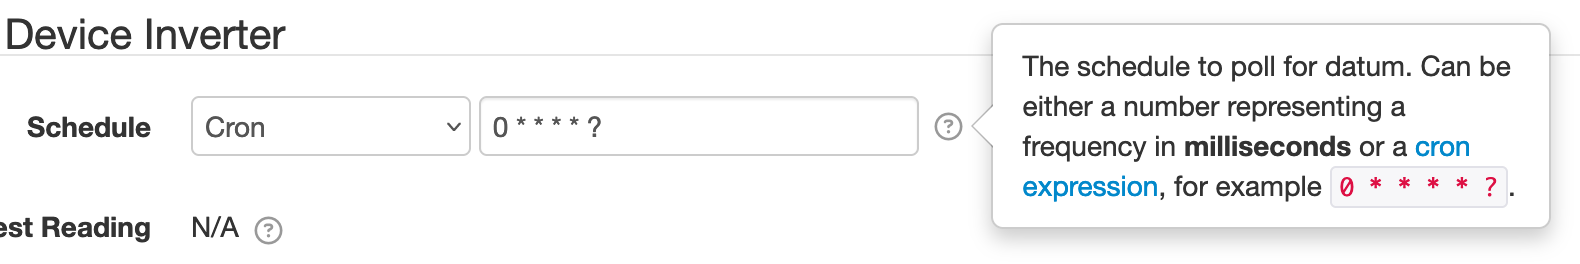
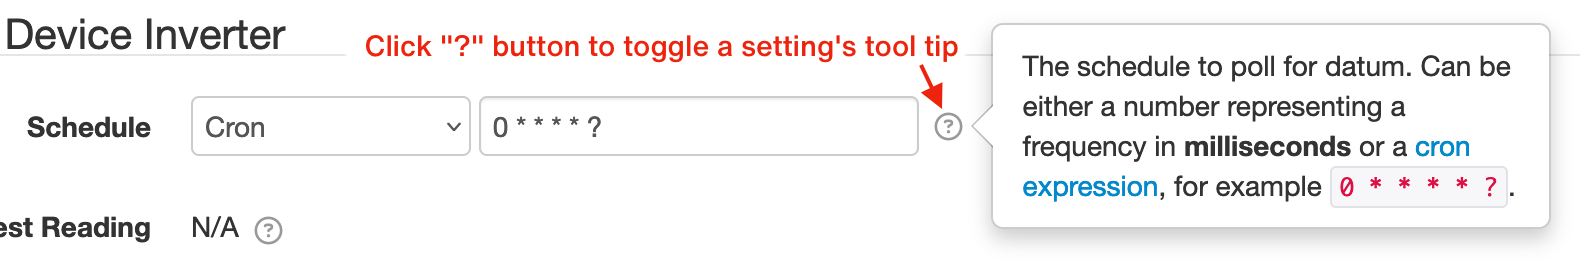
Deployed 6e663e7 with MkDocs version: 1.4.2

Changed region(s): [[0.2171, 0.1212, 0.6203, 0.2424], [0.5582, 0.303, 0.6203, 0.3939], [0.5582, 0.2727, 0.5892, 0.303]]

diff --git a/users/setup-app/settings/index.html b/users/setup-app/settings/index.html
@@ -399,6 +399,46 @@
 <div class="md-sidebar__scrollwrap">
 <div class="md-sidebar__inner">
 <nav aria-label="Table of contents" class="md-nav md-nav--secondary">
+<label class="md-nav__title" for="__toc">
+<span class="md-nav__icon md-icon"></span>
+      Table of contents
+    </label>
+<ul class="md-nav__list" data-md-component="toc" data-md-scrollfix="">
+<li class="md-nav__item">
+<a class="md-nav__link" href="#components">
+    Components
+  </a>
+</li>
+<li class="md-nav__item">
+<a class="md-nav__link" href="#settings_1">
+    Settings
+  </a>
+</li>
+<li class="md-nav__item">
+<a class="md-nav__link" href="#backup-restore">
+    Backup &amp; Restore
+  </a>
+<nav aria-label="Backup &amp; Restore" class="md-nav">
+<ul class="md-nav__list">
+<li class="md-nav__item">
+<a class="md-nav__link" href="#file-system-backup-service">
+    File System Backup Service
+  </a>
+</li>
+<li class="md-nav__item">
+<a class="md-nav__link" href="#s3-backup-service">
+    S3 Backup Service
+  </a>
+</li>
+</ul>
+</nav>
+</li>
+<li class="md-nav__item">
+<a class="md-nav__link" href="#settings-backup-restore">
+    Settings Backup &amp; Restore
+  </a>
+</li>
+</ul>
 </nav>
 </div>
 </div>
@@ -406,9 +446,131 @@
 <div class="md-content" data-md-component="content">
 <article class="md-content__inner md-typeset">
 <h1 id="settings"><span class="enumerate-headings-plugin enumerate-heading-plugin">7.</span> Settings<a class="headerlink" href="#settings" title="Permanent link">¶</a></h1>
-<p>TODO</p>
+<p>The Settings page in SolarNode Setup is where you can configure all available SolarNode settings.
+The page is divided 4 main sections, outlined next.</p>
+<h2 id="components"><span class="enumerate-headings-plugin enumerate-heading-plugin">7.1</span> Components<a class="headerlink" href="#components" title="Permanent link">¶</a></h2>
+<p>The Components section lists all the configurable <em>multi-instance components</em> available on
+your SolarNode. <em>Multi-instance</em> means you can configure any number of a given component,
+each with their own settings.</p>
+<p>For example imagine you want to collect data from a power meter, solar inverter, and weather
+station, all of which use the Modbus protocol. To do that you would configure three <em>instances</em> of
+the Modbus Device component, one for each device.</p>
+<p>Use the <strong>Manage</strong> button for any listed compoennt to add or remove instances of that component.</p>
+<p>An <strong>instance count badge</strong> appears next to any component with at least one instance configured.</p>
+<p><img alt="Settings components list" src="../../../images/users/setup/setup-components%402x.png" width="740"/></p>
+<h2 id="settings_1"><span class="enumerate-headings-plugin enumerate-heading-plugin">7.2</span> Settings<a class="headerlink" href="#settings_1" title="Permanent link">¶</a></h2>
+<p>Other configurable services that are not <a href="#components">Components</a> appear in the Settings section.</p>
+<p>Each setting will include a <span class="twemoji"><svg viewbox="0 0 512 512" xmlns="http://www.w3.org/2000/svg"><!--! Font Awesome Free 6.4.0 by @fontawesome - https://fontawesome.com License - https://fontawesome.com/license/free (Icons: CC BY 4.0, Fonts: SIL OFL 1.1, Code: MIT License) Copyright 2023 Fonticons, Inc.--><path d="M464 256a208 208 0 1 0-416 0 208 208 0 1 0 416 0zM0 256a256 256 0 1 1 512 0 256 256 0 1 1-512 0zm169.8-90.7c7.9-22.3 29.1-37.3 52.8-37.3h58.3c34.9 0 63.1 28.3 63.1 63.1 0 22.6-12.1 43.5-31.7 54.8L280 264.4c-.2 13-10.9 23.6-24 23.6-13.3 0-24-10.7-24-24v-13.5c0-8.6 4.6-16.5 12.1-20.8l44.3-25.4c4.7-2.7 7.6-7.7 7.6-13.1 0-8.4-6.8-15.1-15.1-15.1h-58.3c-3.4 0-6.4 2.1-7.5 5.3l-.4 1.2c-4.4 12.5-18.2 19-30.6 14.6s-19-18.2-14.6-30.6l.4-1.2zM224 352a32 32 0 1 1 64 0 32 32 0 1 1-64 0z"></path></svg></span> button that will show you a
+brief description of that setting.</p>
 <p><img alt="Setting tool tips have helpful information" src="../../../images/users/setup/setup-settings-toolip%402x.png" width="790"/></p>
+<p>After making any change, an <strong>Active value</strong> label will appear, showing the currently active value
+for that setting.</p>
 <p><img alt="Modified settings show the previous value" src="../../../images/users/setup/setup-setting-changed-value%402x.png" width="566"/></p>
+<p>In order to save your changes, you must click the <strong>Save All Changes</strong> button. You may need to scroll
+the page to find it!</p>
+<p><img alt="Save all changes button" src="../../../images/users/setup/setup-save-changes%402x.png" width="734"/></p>
+<h2 id="backup-restore"><span class="enumerate-headings-plugin enumerate-heading-plugin">7.3</span> Backup &amp; Restore<a class="headerlink" href="#backup-restore" title="Permanent link">¶</a></h2>
+<p>The Backup &amp; Restore section lets you manage SolarNode backups. Each backup contains a snapshot
+of the settings you have configured, the node's certificate, and custom plugins.</p>
+<p><img alt="Backup and restore form" src="../../../images/users/setup/setup-backups%402x.png" width="650"/></p>
+<h3 id="file-system-backup-service"><span class="enumerate-headings-plugin enumerate-heading-plugin">7.3.1</span> File System Backup Service<a class="headerlink" href="#file-system-backup-service" title="Permanent link">¶</a></h3>
+<p>The File System Backup Service is the default Backup Service provided by SolarNode. It saves
+the backup onto the node itself. In order to be able to restore your settings if the node is damaged
+or lost, you must download a copy of a backup using the <strong>Download</strong> button, and save the file
+to a safe place.</p>
+<div class="admonition warning">
+<p class="admonition-title">Warning</p>
+<p>If you do not download a copy of a backup, you run the risk of losing your settings and
+node certificate, making it impossible to restore the node in the event of a catastrophic
+hardware failure.</p>
+</div>
+<p>The configurable settings of the File System Backup Service are:</p>
+<table>
+<thead>
+<tr>
+<th align="left">Setting</th>
+<th align="left">Description</th>
+</tr>
+</thead>
+<tbody>
+<tr>
+<td align="left">Backup Directory</td>
+<td align="left">The folder (on the node) where the backups will be saved.</td>
+</tr>
+<tr>
+<td align="left">Copies</td>
+<td align="left">The number of backup copies to keep, before deleting the oldest backup.</td>
+</tr>
+</tbody>
+</table>
+<h3 id="s3-backup-service"><span class="enumerate-headings-plugin enumerate-heading-plugin">7.3.2</span> S3 Backup Service<a class="headerlink" href="#s3-backup-service" title="Permanent link">¶</a></h3>
+<p>The S3 Backup Service creates cloud-based backups in <a href="https://aws.amazon.com/s3/">AWS S3</a> (or any compatible provider). You
+must configure the credentials and S3 location details to use before any backups can be created.</p>
+<p><img alt="S3 Backup settings form" src="../../../images/users/setup/setup-s3-backup%402x.png" width="460"/></p>
+<div class="admonition note">
+<p class="admonition-title">Note</p>
+<p>The S3 Backup Service requires the <a href="https://github.com/SolarNetwork/solarnetwork-node/tree/develop/net.solarnetwork.node.backup.s3">S3 Backup Service Plugin</a>.</p>
+</div>
+<p>The configurable settings of the S3 Backup Service are:</p>
+<table>
+<thead>
+<tr>
+<th align="left">Setting</th>
+<th align="left">Description</th>
+</tr>
+</thead>
+<tbody>
+<tr>
+<td align="left">AWS Token</td>
+<td align="left">The AWS access token to authenticate with.</td>
+</tr>
+<tr>
+<td align="left">AWS Secret</td>
+<td align="left">The AWS access token secret to authenticate with.</td>
+</tr>
+<tr>
+<td align="left">AWS Region</td>
+<td align="left">The name of the Amazon region to use, for example <code>us-west-2</code>.</td>
+</tr>
+<tr>
+<td align="left">S3 Bucket</td>
+<td align="left">The name of the S3 bucket to use.</td>
+</tr>
+<tr>
+<td align="left">S3 Path</td>
+<td align="left">An optional root path to use for all backup data (typically a folder location).</td>
+</tr>
+<tr>
+<td align="left">Storage Class</td>
+<td align="left">A supported storage class, such as STANDARD (the default), <code>STANDARD_IA</code>, <code>INTELLIGENT_TIERING</code>, <code>REDUCED_REDUNDANCY</code>, and so on.</td>
+</tr>
+<tr>
+<td align="left">Copies</td>
+<td align="left">The number of backup copies to keep, before deleting the oldest backup.</td>
+</tr>
+<tr>
+<td align="left">Cache Seconds</td>
+<td align="left">The amount of time to cache backup metadata such as the list of available backups, in seconds.</td>
+</tr>
+</tbody>
+</table>
+<h2 id="settings-backup-restore"><span class="enumerate-headings-plugin enumerate-heading-plugin">7.4</span> Settings Backup &amp; Restore<a class="headerlink" href="#settings-backup-restore" title="Permanent link">¶</a></h2>
+<p>The Settings Backup &amp; Restore section provides a way to manage <a href="../../settings/">Settings Files</a>
+and Settings Resources, both of which are backups for the configured settings in SolarNode.</p>
+<div class="admonition warning">
+<p class="admonition-title">Warning</p>
+<p>Settings Files and Settings Resources do <strong>not</strong> include the node's certificate or custom
+plugins. See the <a href="#backup-restore">Backup &amp; Restore</a> section for managing "full" backups
+that <em>do</em> include those items.</p>
+</div>
+<p><img alt="Settings import/export form" src="../../../images/users/setup/setup-settings-backup%402x.png" width="676"/></p>
+<p>The <strong>Export</strong> button allows you to download a <a href="../../settings/">Settings File</a> with the currently active configuration.</p>
+<p>The <strong>Import</strong> button allows you to upload a previously-downloaded <a href="../../settings/">Settings File</a>.</p>
+<p>The <strong>Settings Resource</strong> menu and associated <strong>Export to file</strong> button allow you to download
+specialized settings files, offered by some components in SolarNode.</p>
+<p>The <strong>Auto backups</strong> area will have a list of buttons, each of which will let you download a
+<a href="../../settings/">Settings File</a> that SolarNode automatically created. Each button shows you
+the date the settings backup was created.</p>
 </article>
 </div>
 </div>

diff --git a/users/settings/index.html b/users/settings/index.html
@@ -510,7 +510,8 @@ SolarNode setup app:</p>
 <p>Nearly every form field you can edit in the SolarNode setup app represents a setting for a
 component in SolarNode.</p>
 </div>
-<p>In the SolarNode setup app the settings can be imported and exported from the main Settings screen:</p>
+<p>In the SolarNode setup app the settings can be imported and exported from the main Settings screen
+in the <a href="../setup-app/settings/#settings-backup-restore">Settings Backup &amp; Restore</a> section:</p>
 <p><img alt="SolarNode settings import/export form" src="../../images/users/settings-io.png" width="742"/></p>
 <h2 id="settings-csv-example"><span class="enumerate-headings-plugin enumerate-heading-plugin">18.1</span> Settings CSV example<a class="headerlink" href="#settings-csv-example" title="Permanent link">¶</a></h2>
 <p>Here's an example snippet of a settings CSV file:</p>
